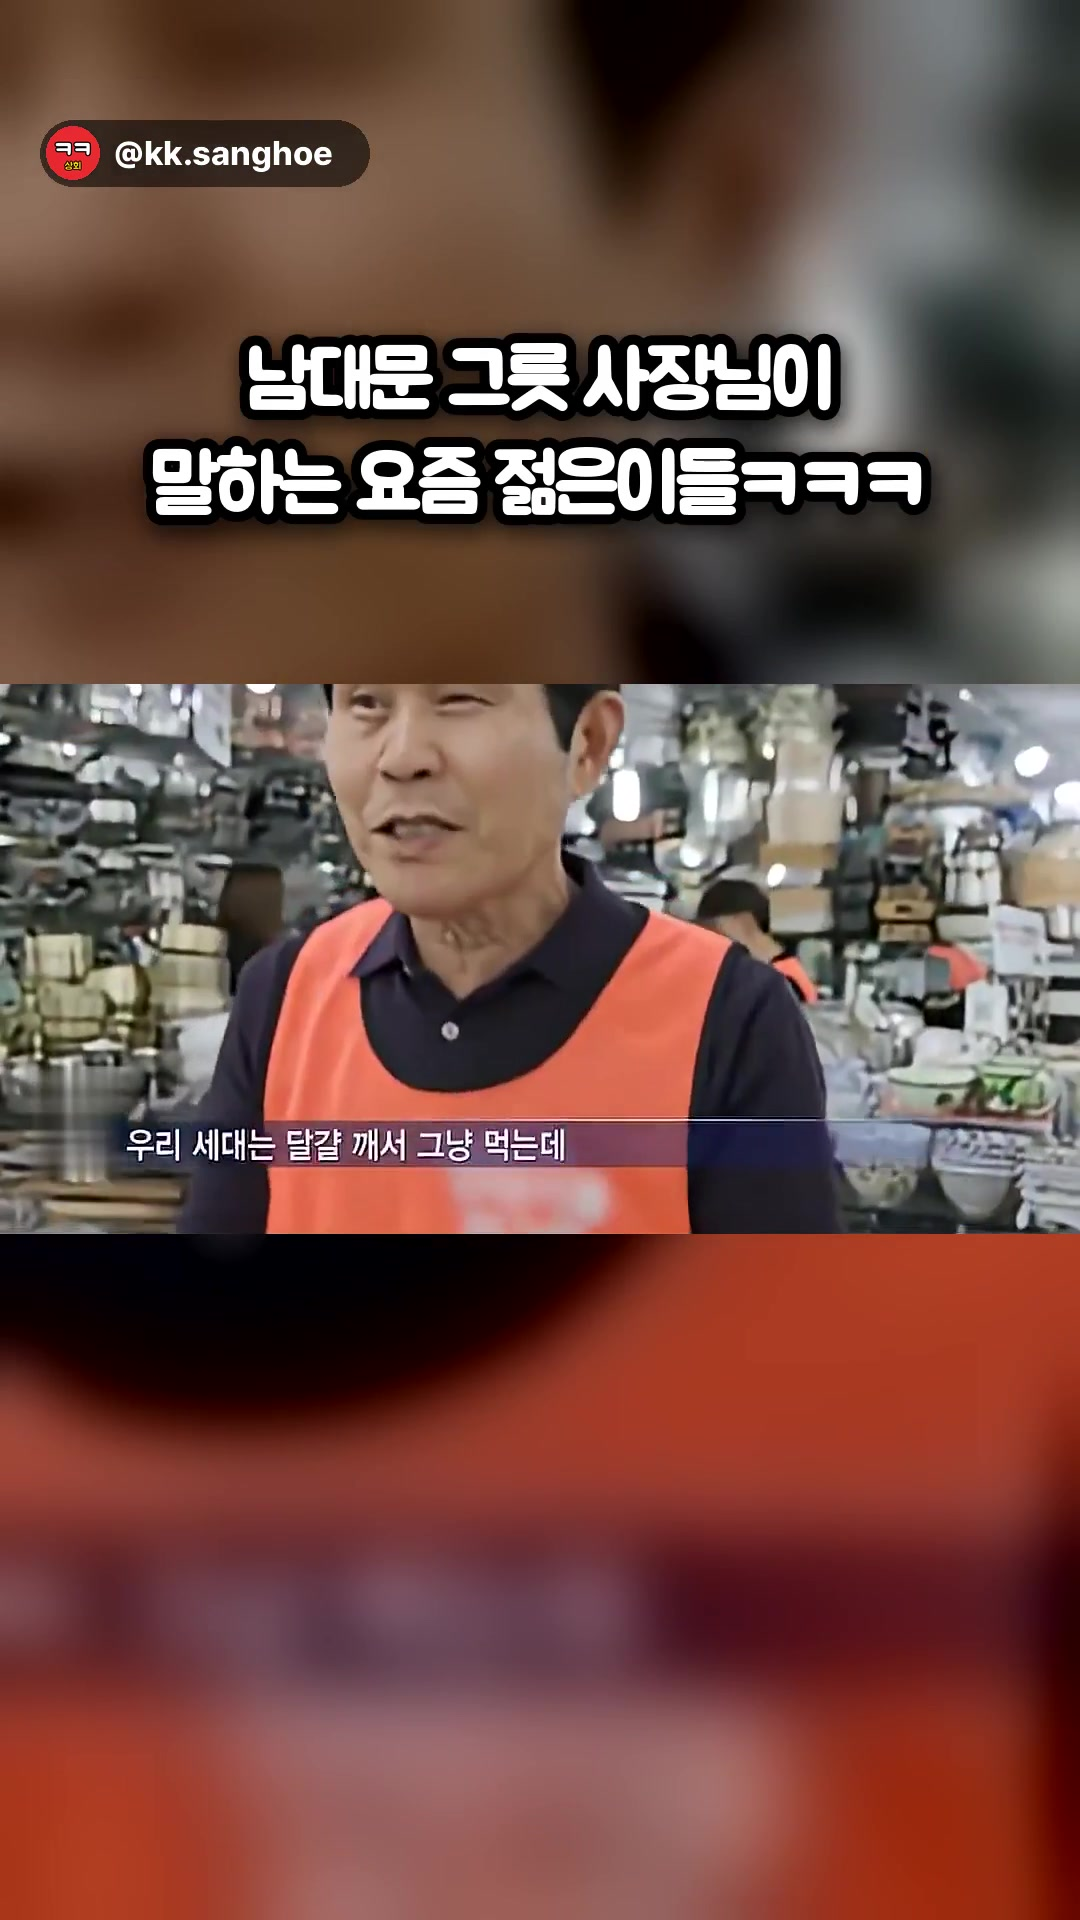
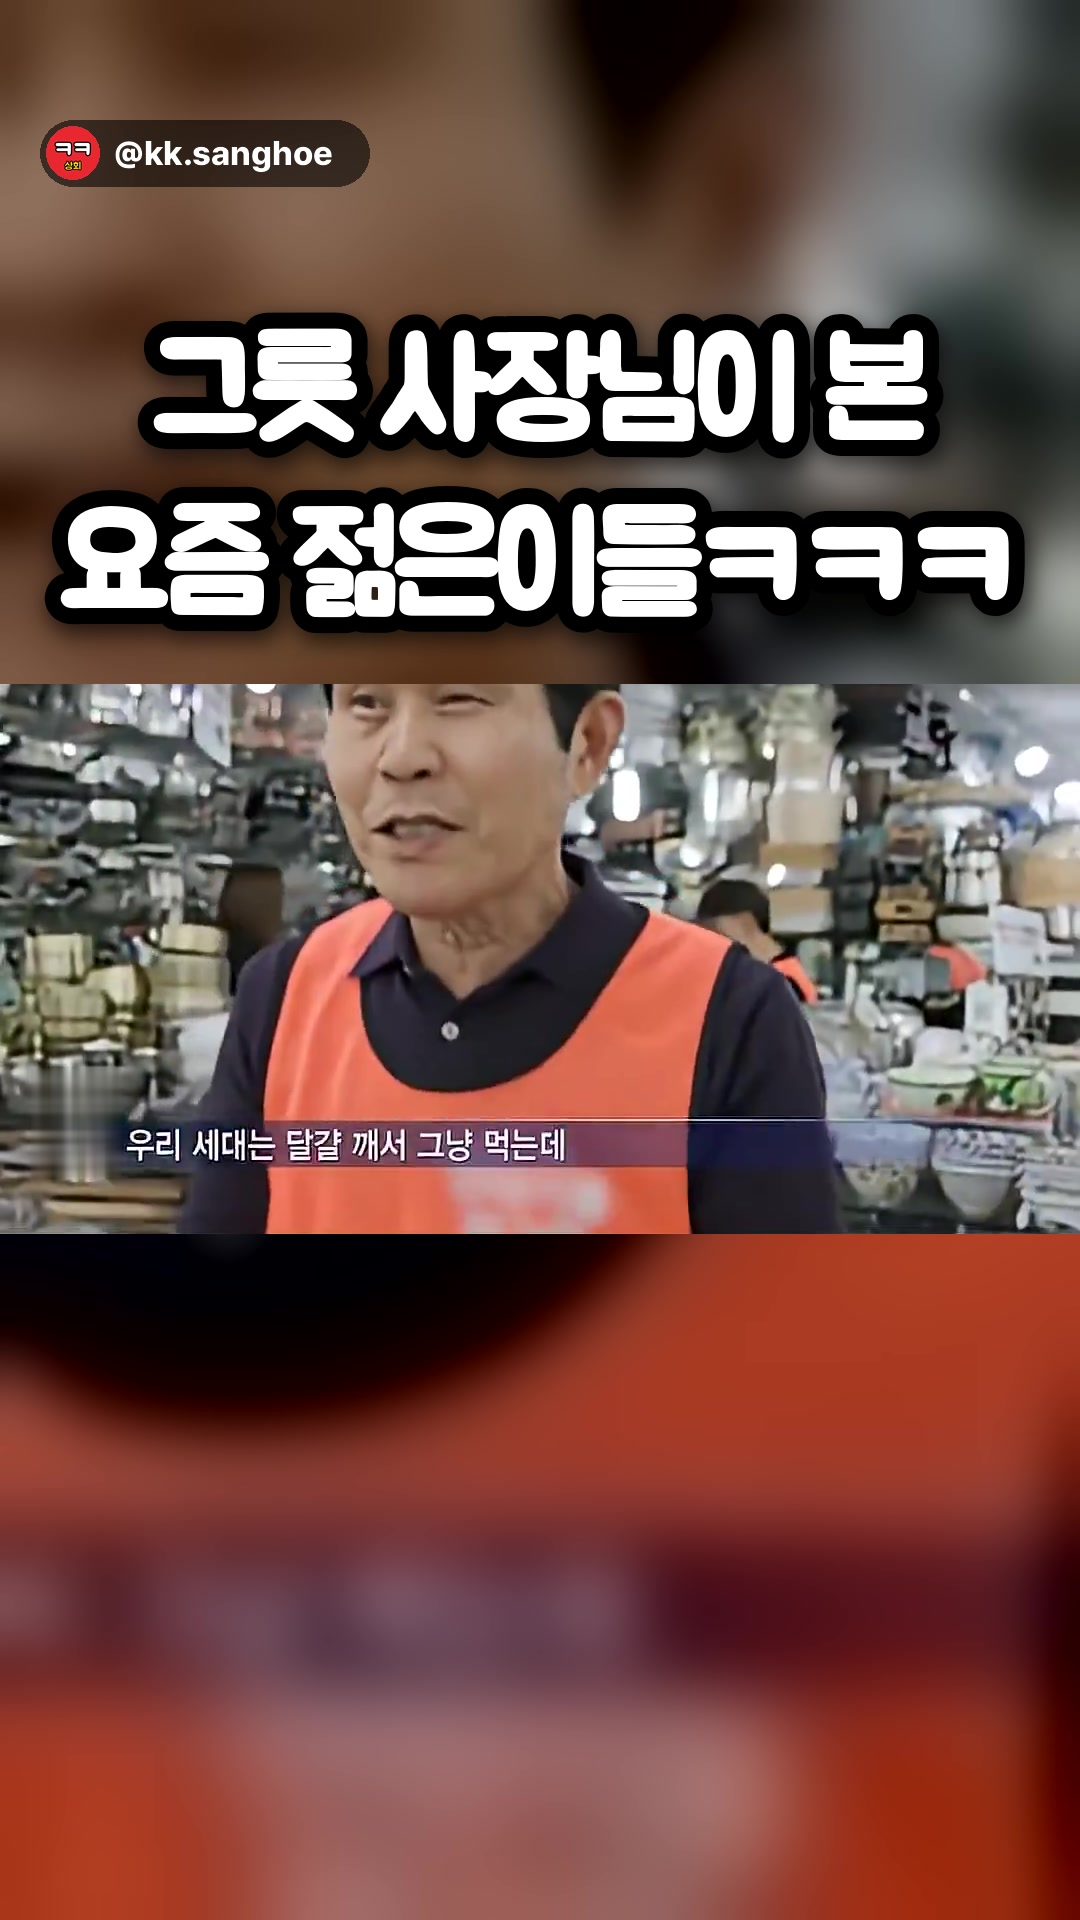
ㅋㅋ상회 릴스 커버에 큰 표지 제목 (사용자 요청)
render_reel.py: cover 옵션 추가. 깨끗한 장면 + 큰 주아체 제목(기본 150, 위치 0.30)으로
out/cover.jpg를 만든다. 12시 그릇·13시 길냥이 릴스 커버 다시 만듦.

Claude-Session: https://claude.ai/code/session_01FGsw5U3p38a6p1vzKeLw4Y

Changed region(s): [[0.0306, 0.1562, 0.9778, 0.3438]]

diff --git a/scripts/render_reel.py b/scripts/render_reel.py
@@ -13,7 +13,10 @@ reel.json:
   ]
 }
 선택: 구간별 "fx"/"fy"(세로 영상이 아닐 때 자를 위치), "bottom"(제목 위치 0~1, 기본 0.72),
-      "caption_y"(자막 중심 0~1, 기본 0.78), "size"(제목 130, 자막 84), "speed"(1.0).
+      "caption_y"(자막 중심 0~1, 기본 0.78), "size"(제목 130, 자막 84), "speed"(1.0),
+      "crop"([x0,y0,x1,y1] 0~1), "delogo"([[x,y,w,h]] 원본 픽셀, 방송 로고 지우기).
+커버: 최상위 "cover": {"segment": 0, "t": 0.5, "title": "...", "size": 150, "bottom": 0.30}
+      → out/cover.jpg = 그 구간의 깨끗한 장면 + 큰 표지 제목(영상 속 작은 제목 없이). 생략하면 첫 구간·첫 제목으로 만든다.
 """
 import json
 import os
@@ -98,6 +101,9 @@ def main(spec_path):
     tag = tag_layer(base)
     keep_audio = spec.get("mute", True) is False
     parts = []
+    # cover: {"segment": 0, "t": 0.5(구간 안 초), "title": 기본=첫 title, "size": 150, "bottom": 0.30}
+    cv = spec.get("cover", {})
+    ctitle = cv.get("title") or next((x["title"] for x in spec["segments"] if x.get("title")), "")
     for i, s in enumerate(spec["segments"]):
         ov = tag.copy()
         if s.get("title"):
@@ -136,9 +142,15 @@ def main(spec_path):
                         "-filter_complex", vf, "-map", "[o]", *amap, "-t", str((s["end"] - s["start"]) / speed),
                         "-c:v", "libx264", "-preset", "veryfast", "-crf", "19", seg], check=True)
         parts.append(seg)
-        if i == 0:  # 첫 장면을 커버 이미지로
-            subprocess.run([ff, "-y", "-loglevel", "error", "-ss", "0.5", "-i", seg, "-frames:v", "1",
-                            os.path.join(os.path.dirname(out), "cover.jpg")], check=True)
+        if i == cv.get("segment", 0):  # 커버(격자 썸네일): 깨끗한 장면 + 큰 표지 제목 (2026-11-03 사용자: 커버 글씨는 크게)
+            cov = tag.copy()
+            if ctitle:
+                cov = Image.alpha_composite(cov, text_layer(ctitle.split("\n"), cv.get("size", 150), round(H * cv.get("bottom", 0.30))))
+            cpng = os.path.join(tmp, "cover.png")
+            cov.save(cpng)
+            subprocess.run([ff, "-y", "-loglevel", "error", "-i", os.path.join(base, s["video"]), "-i", cpng,
+                            "-filter_complex", vf.split(";[0:a]")[0], "-map", "[o]", "-ss", str(cv.get("t", 0.5)),
+                            "-frames:v", "1", "-q:v", "2", os.path.join(os.path.dirname(out), "cover.jpg")], check=True)
     lst = os.path.join(tmp, "list.txt")
     open(lst, "w").write("".join(f"file '{p}'\n" for p in parts))
     if keep_audio:
